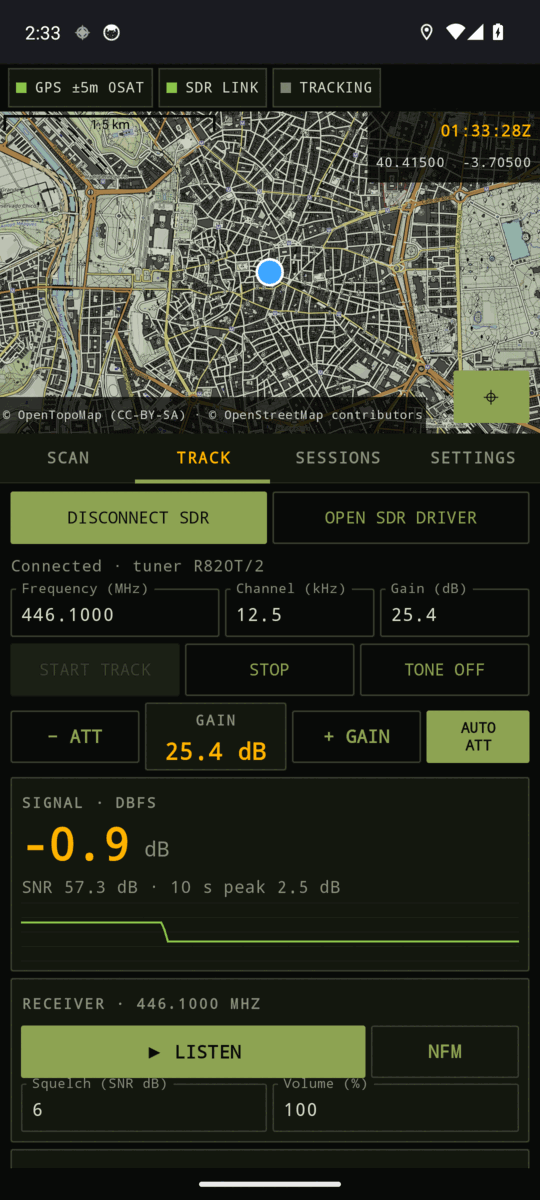
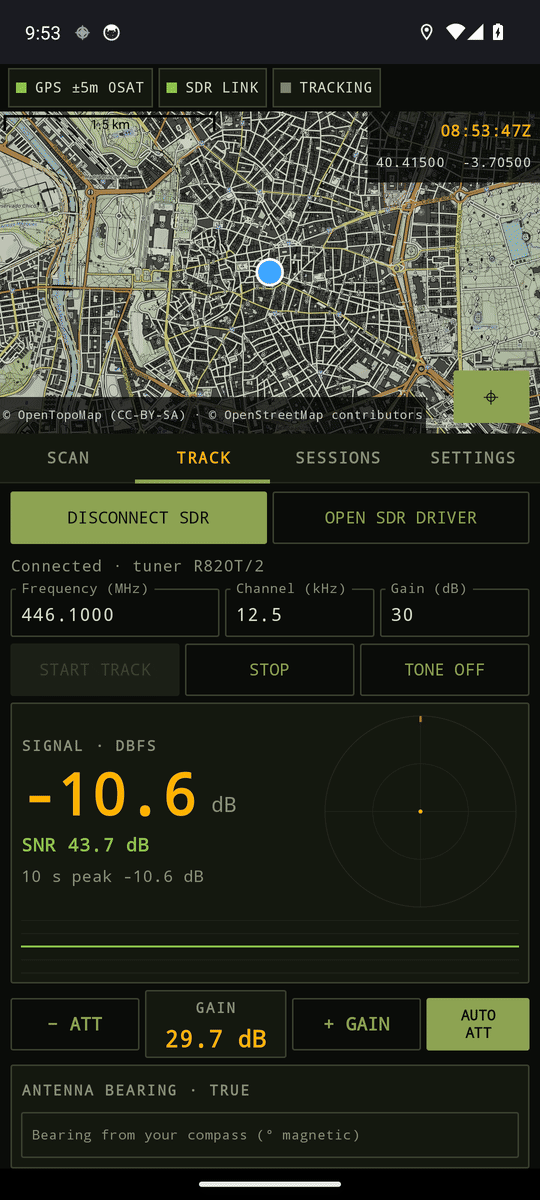
Fix Offset type error in polar plot; regenerate demo GIF and screenshots

diff --git a/app/src/main/java/app/rdf/finder/Ui.kt b/app/src/main/java/app/rdf/finder/Ui.kt
@@ -448,7 +448,7 @@ fun PolarPlot(peak: PeakInfo?, headingDeg: Double?, modifier: Modifier) {
                     val v = prof[i]
                     if (v.isNaN()) continue
                     val rad = Math.toRadians((i + 0.5) * step)
-                    val rr = r * (0.12 + 0.88 * ((v - lo) / (hi - lo)).toFloat())
+                    val rr = r * (0.12f + 0.88f * ((v - lo) / (hi - lo)).toFloat())
                     val pt = Offset(c.x + sin(rad).toFloat() * rr, c.y - cos(rad).toFloat() * rr)
                     if (first) { path.moveTo(pt.x, pt.y); first = false } else path.lineTo(pt.x, pt.y)
                 }
